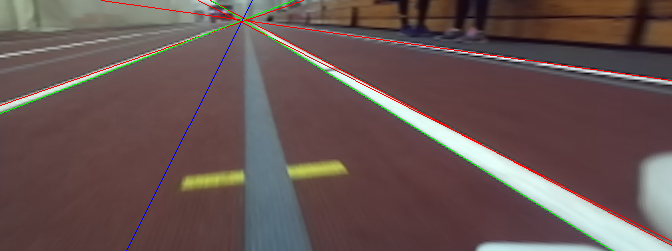
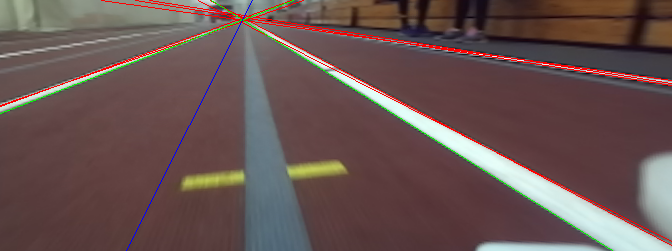
fixed bugs in trajectory

diff --git a/src/computer_vision/hough_transform.py b/src/computer_vision/hough_transform.py
@@ -19,6 +19,7 @@ def draw_line(img, rho, theta, color, thickness = 1):
     cv2.line(img,(x1,y1),(x2,y2),color,thickness)
 
 def get_trajectory(img, filename = "trajectory.jpg"):
+    original_height = img.shape[0]
     img = img[int(img.shape[0]/3):, :]
     height = img.shape[0]
     gray = cv2.cvtColor(img,cv2.COLOR_BGR2GRAY)  
@@ -28,7 +29,7 @@ def get_trajectory(img, filename = "trajectory.jpg"):
     edges = cv2.Canny(gray,lower_threshold,upper_threshold,apertureSize = 3) 
     #cv2.imwrite(output_filepath+"canny.jpg", edges) 
 
-    min_intersections = 120 #TUNE                         
+    min_intersections = 100 #TUNE                         
     lines = cv2.HoughLines(edges,1,np.pi/180,min_intersections)    
 
     min_left_theta, max_right_theta = np.Inf, 0
@@ -47,14 +48,18 @@ def get_trajectory(img, filename = "trajectory.jpg"):
     draw_line(img, right[0], right[1], (0,255,0))
     #cv2.imwrite(output_filepath+"hough.jpg", img)
 
-    bottom = (left[0]/np.cos(left[1]) + right[0]/np.cos(right[1]))/2
-    top = ((left[0]/np.sin(left[1])-height)*np.tan(left[1]) + 
-            (right[0]/np.sin(right[1])-height)*np.tan(right[1]))/2
+    top_right = right[0]/np.cos(right[1])
+    top_left = left[0]/np.cos(left[1])
+    bottom_right = (right[0]/np.sin(right[1])-height)*np.tan(right[1])
+    bottom_left = (left[0]/np.sin(left[1])-height)*np.tan(left[1])
 
-    cv2.line(img,(int(bottom),0),(int(top),height),(255,0,0),1)
+    top = (top_right + top_left)/2
+    bottom = (bottom_right + bottom_left)/2
+
+    cv2.line(img,(int(bottom),height),(int(top),0),(255,0,0),1)
     cv2.imwrite(output_filepath+filename, img)
 
-    return (np.array([bottom, 0]), np.array([top, height]))
+    return np.array([bottom,original_height]), np.array([top,original_height-height])
 
 
 def test_hough(filename):

diff --git a/src/road_detector.py b/src/road_detector.py
@@ -42,17 +42,19 @@ class RoadDetector():
 
         image_msg = self.bridge.imgmsg_to_cv2(image_msg, desired_encoding='bgr8')
         
-        image_msg = np.asarray(image_msg)
+        # image_msg = np.asarray(image_msg)
+        image_msg = cv2.imread("computer_vision/test_images_input/image (4).png")
         bottom, top = get_trajectory(image_msg)
-        print(top, bottom, "lalala")
+        # print(top, bottom, "lalala")
         num_points = 25
         point_list = [] # (x,y) in relative frame of car
-        for step in range(num_points+1):
-            uv = bottom + (top-bottom)*(step / num_points)
+        for step in range(num_points-2):
+            uv = bottom + (top-bottom)*(step / float(num_points-1))
             xy = self.homography.transformUvToXy(uv[0], uv[1])
             point_list.append(xy)
+            
         
-        print(point_list[0], point_list[-1])
+        # print(point_list[0], point_list[-1])
 
         #bounding_box = line_color_segmentation(image_msg)
         #if not bounding_box is None:
@@ -67,9 +69,10 @@ class RoadDetector():
 
         #debug_msg = self.bridge.cv2_to_imgmsg(image, desired_encoding="bgr8")
         #self.debug_pub.publish(debug_msg)
-
+        print("POINT LIST: ", point_list)
         traj = PoseArray()
-        traj.header = self.make_header("/map")
+        traj.header = self.make_header("map")
+        
         for x,y in point_list:
             pose = Pose()
             pose.position.x = x
